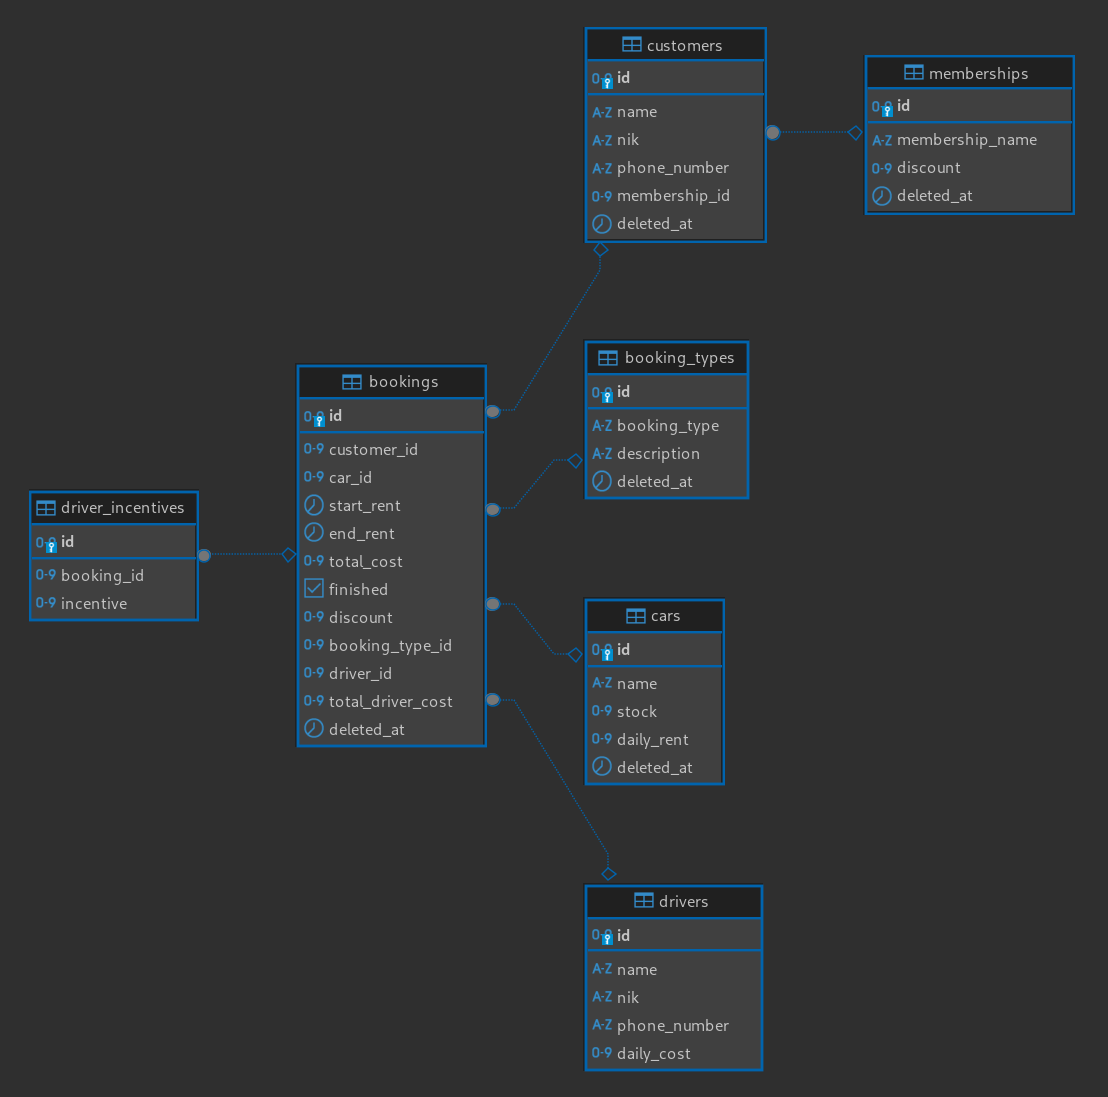
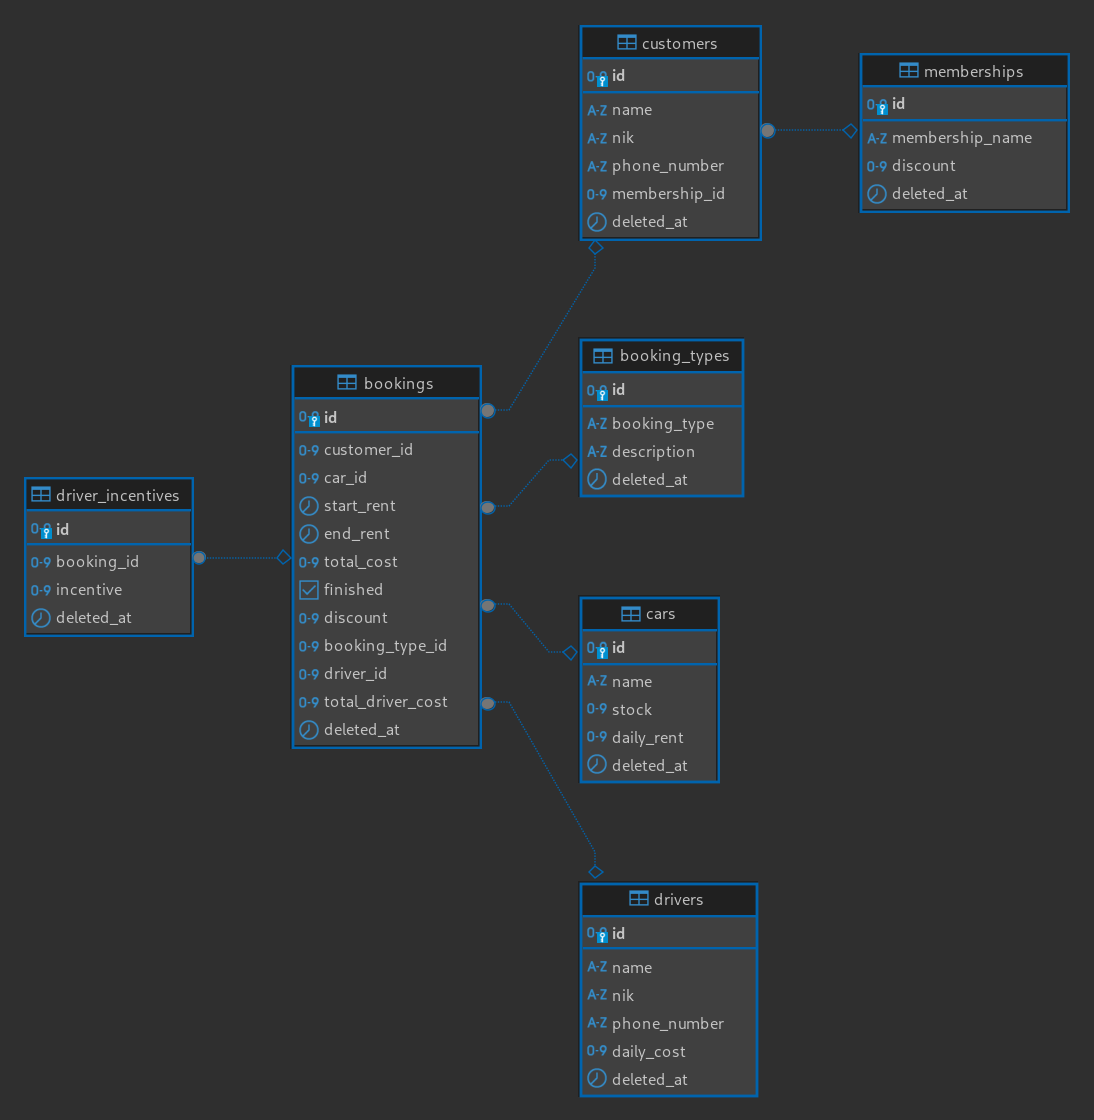
Merge dev to v2 (#2)
* feat: show driver_incentive in get booking endpoint

* feat: preloading in get list bookings endpoint

* chore: update README.md

* feat: add membership_id if request.membership_id exists

* feat: finalize app

* feat: add deleted_at in drivers and driver_incentives

diff --git a/internal/entity/driver_entity.go b/internal/entity/driver_entity.go
@@ -1,11 +1,14 @@
 package entity
 
+import "gorm.io/gorm"
+
 type Driver struct {
-	ID          int     `gorm:"column:id;primaryKey"`
-	Name        string  `gorm:"column:name"`
-	NIK         string  `gorm:"column:nik"`
-	PhoneNumber string  `gorm:"column:phone_number"`
-	DailyCost   float64 `gorm:"column:daily_cost"`
+	ID          int            `gorm:"column:id;primaryKey"`
+	Name        string         `gorm:"column:name"`
+	NIK         string         `gorm:"column:nik"`
+	PhoneNumber string         `gorm:"column:phone_number"`
+	DailyCost   float64        `gorm:"column:daily_cost"`
+	DeletedAt   gorm.DeletedAt `gorm:"column:deleted_at"`
 }
 
 func (*Driver) TableName() string {

diff --git a/internal/entity/driver_incentive_entity.go b/internal/entity/driver_incentive_entity.go
@@ -1,9 +1,12 @@
 package entity
 
+import "gorm.io/gorm"
+
 type DriverIncentive struct {
-	ID        int     `gorm:"column:id;primaryKey"`
-	BookingID int     `gorm:"column:booking_id;unique"`
-	Incentive float64 `gorm:"column:incentive"`
+	ID        int            `gorm:"column:id;primaryKey"`
+	BookingID int            `gorm:"column:booking_id;unique"`
+	Incentive float64        `gorm:"column:incentive"`
+	DeletedAt gorm.DeletedAt `gorm:"column:deleted_at"`
 
 	Booking Booking `gorm:"foreignKey:booking_id;references:id"`
 }
